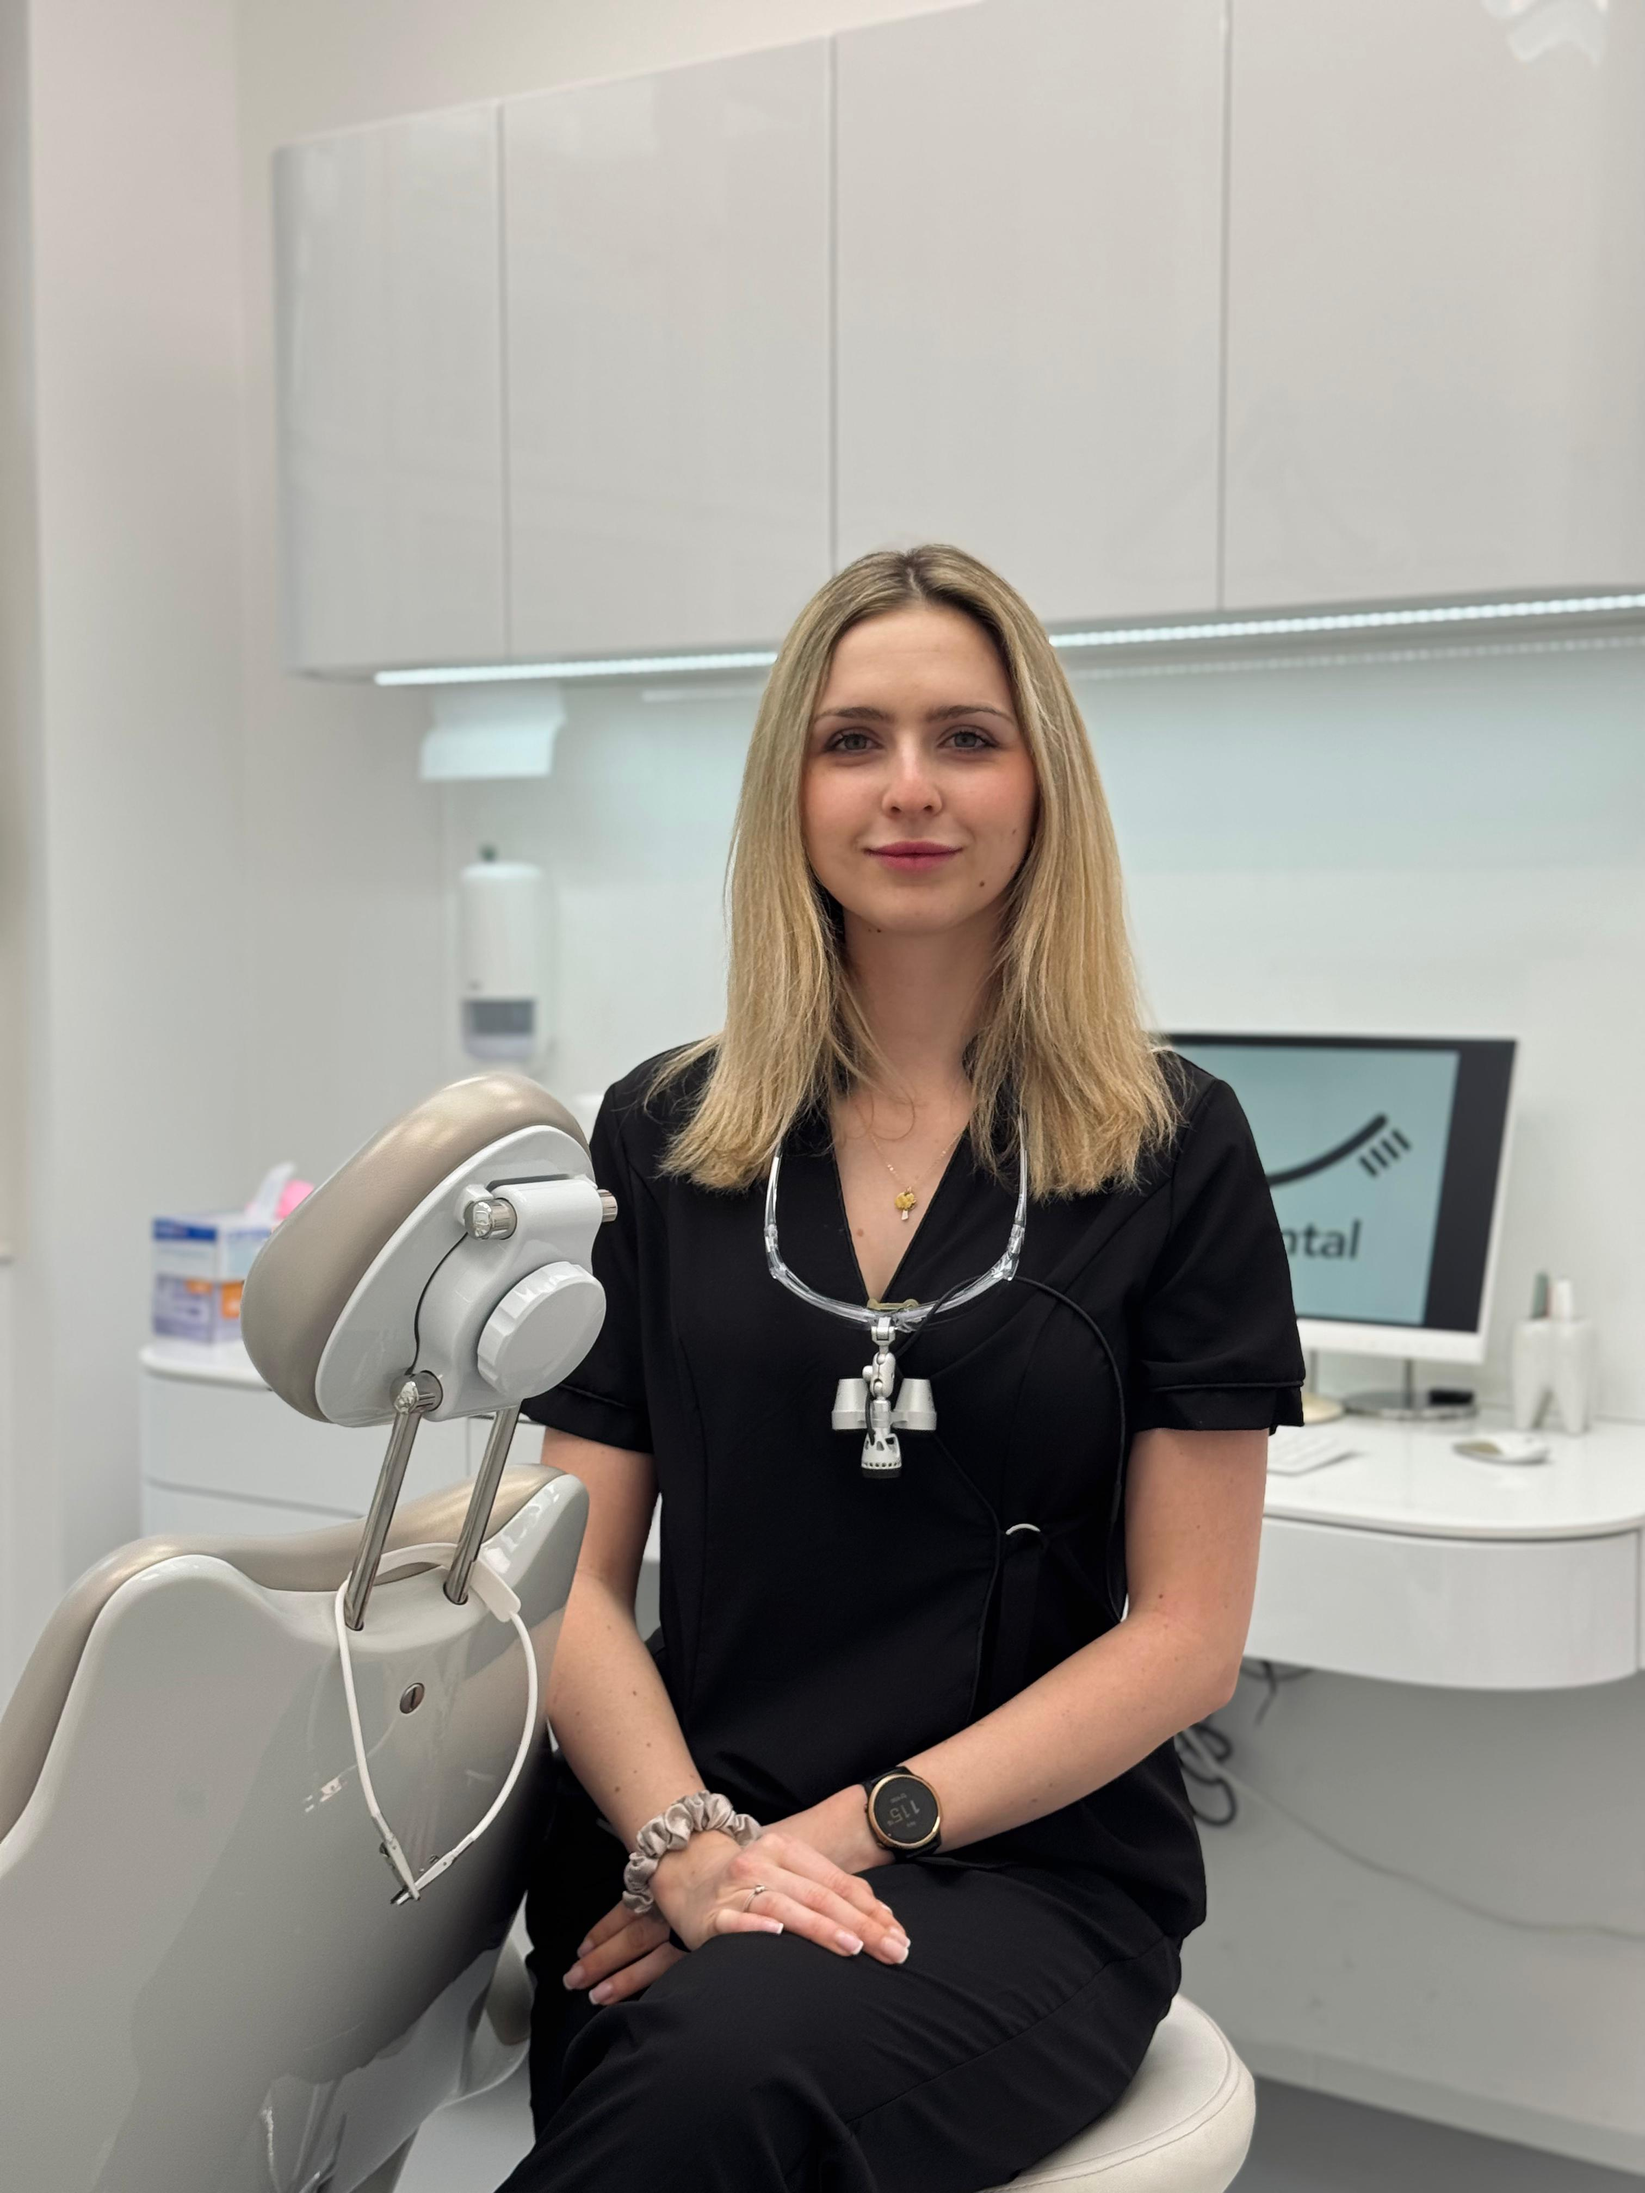
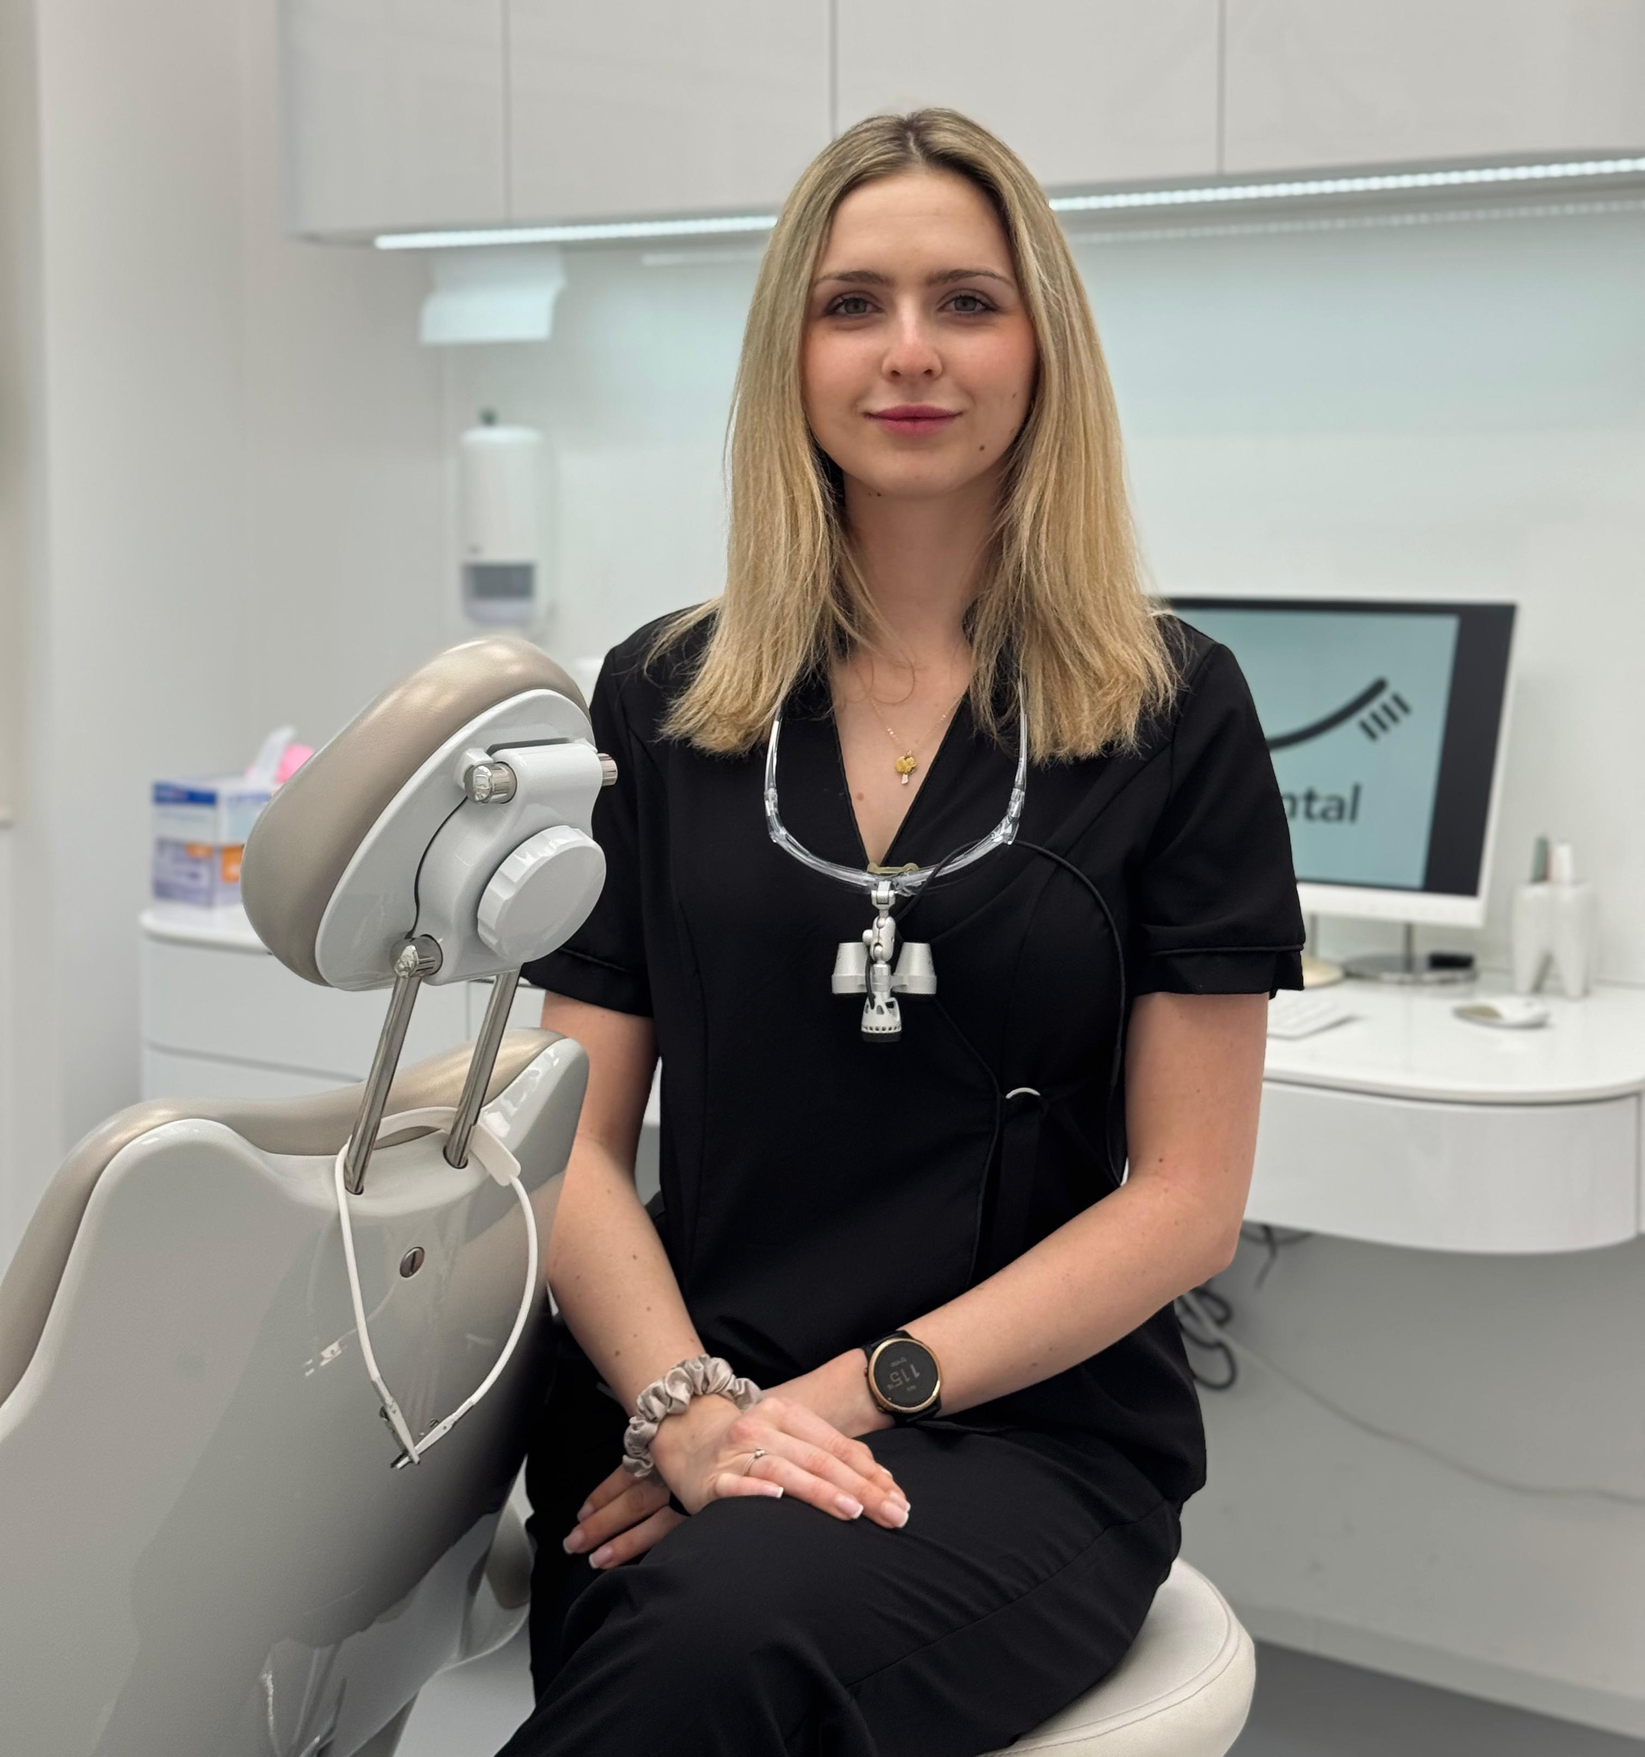
Úpravy About, obrázek a styly

diff --git a/src/components/About.jsx b/src/components/About.jsx
@@ -1,4 +1,4 @@
-import aboutPhoto from '../images/LM_dental_2.jpeg';
+import ownerPhoto from '../images/LM_dental_2.jpeg';
 
 const credentials = [
   'Moderní a šetrné postupy',
@@ -11,20 +11,12 @@ function About() {
   return (
     <section id="about" className="section section-about">
       <div className="container about-layout">
-        <figure className="about-photo animate-on-scroll">
-          <img
-            src={aboutPhoto}
-            alt="Ordinace dentální hygieny LM Dental"
-            loading="lazy"
-          />
-        </figure>
-
         <div className="about-content animate-on-scroll" style={{ transitionDelay: '120ms' }}>
           <p className="section-kicker">O nás</p>
           <h2>Profesionální péče, lidský přístup</h2>
 
           <blockquote>
-            „Mým cílem je vytvořit místo, kde se spojuje profesionální dentální péče s klidnou a příjemnou atmosférou
+            „Našim cílem je vytvořit místo, kde se spojuje profesionální dentální péče s klidnou a příjmenou atmosférou
             bez stresu.“
           </blockquote>
 
@@ -41,13 +33,6 @@ function About() {
           </p>
 
           <p className="about-paragraph about-paragraph-labeled">
-            <span className="about-label">Kdo vás přivítá</span>
-            Jmenuji se Markéta Lesinová a jsem zakladatelkou LM DENTAL. Jsem pečlivá, pozitivně naladěná dentální
-            hygienistka s několikaletou praxí a svou práci vnímám jako poslání. S radostí se věnuji dětem i dospělým a
-            zakládám si na individuálním, lidském přístupu.
-          </p>
-
-          <p className="about-paragraph about-paragraph-labeled">
             <span className="about-label">Prostředí a komfort</span>
             Pracuji v moderně vybavené ordinaci, která zajišťuje vysoký komfort i efektivitu ošetření. Mojí největší
             motivací je vaše důvěra, spokojenost a dlouhodobě zdravý úsměv. Těším se na osobní setkání.
@@ -58,6 +43,23 @@ function About() {
               <li key={item}>{item}</li>
             ))}
           </ul>
+
+          <section className="about-owner" aria-label="Slovo majitelky">
+            <img
+              className="about-owner-photo"
+              src={ownerPhoto}
+              alt="Markéta Lesinová"
+              loading="lazy"
+            />
+            <div className="about-owner-copy">
+              <p className="about-owner-kicker">Slovo majitelky</p>
+              <p className="about-owner-text">
+                Jmenuji se Markéta Lesinová a jsem zakladatelkou LM Dental. Jsem pečlivá, pozitivně naladěná dentální
+                hygienistka s několikaletou praxí a svou práci vnímám jako poslání. S radostí se věnuji dětem i dospělým
+                a zakládám si na individuálním, lidském přístupu.
+              </p>
+            </div>
+          </section>
         </div>
       </div>
     </section>

diff --git a/src/index.css b/src/index.css
@@ -902,9 +902,11 @@ main {
 
 .about-layout {
   display: grid;
-  grid-template-columns: 1fr 1.1fr;
+  grid-template-columns: 1fr;
   gap: 1.2rem;
   align-items: stretch;
+  max-width: 980px;
+  margin-inline: auto;
 }
 
 .about-photo {
@@ -976,7 +978,8 @@ main {
   padding: 0;
   margin: 1.05rem 0 0;
   display: grid;
-  gap: 0.54rem;
+  grid-template-columns: repeat(2, minmax(0, 1fr));
+  gap: 0.7rem;
 }
 
 .about-points li {
@@ -985,6 +988,64 @@ main {
   border-radius: 0.72rem;
   padding: 0.62rem 0.78rem;
   font-size: 0.83rem;
+}
+
+@media (max-width: 700px) {
+  .about-points {
+    grid-template-columns: 1fr;
+  }
+}
+
+.about-owner {
+  margin-top: 1.25rem;
+  display: flex;
+  gap: 1rem;
+  align-items: flex-start;
+  background: rgba(181, 145, 99, 0.1);
+  border: 1px solid rgba(181, 145, 99, 0.22);
+  border-radius: 1.1rem;
+  padding: 0.9rem;
+}
+
+.about-owner-photo {
+  width: 330px;
+  height: 330px;
+  flex: 0 0 auto;
+  border-radius: 1rem;
+  object-fit: cover;
+  /* Bias framing slightly upward so the face is more likely visible. */
+  object-position: 50% 22%;
+  box-shadow: 0 18px 38px rgba(9, 14, 17, 0.16);
+  border: 1px solid rgba(255, 255, 255, 0.7);
+}
+
+.about-owner-kicker {
+  margin: 0;
+  font-size: 0.72rem;
+  text-transform: uppercase;
+  letter-spacing: 0.14em;
+  font-weight: 800;
+  color: var(--ink);
+}
+
+.about-owner-text {
+  margin-top: 0.45rem;
+  color: var(--ink-soft);
+  font-size: 0.92rem;
+}
+
+@media (max-width: 700px) {
+  .about-owner {
+    flex-direction: column;
+    gap: 0.8rem;
+  }
+
+  .about-owner-photo {
+    width: 100%;
+    max-width: 520px;
+    height: 420px;
+    border-radius: 0.9rem;
+  }
 }
 
 .section-pricing {
